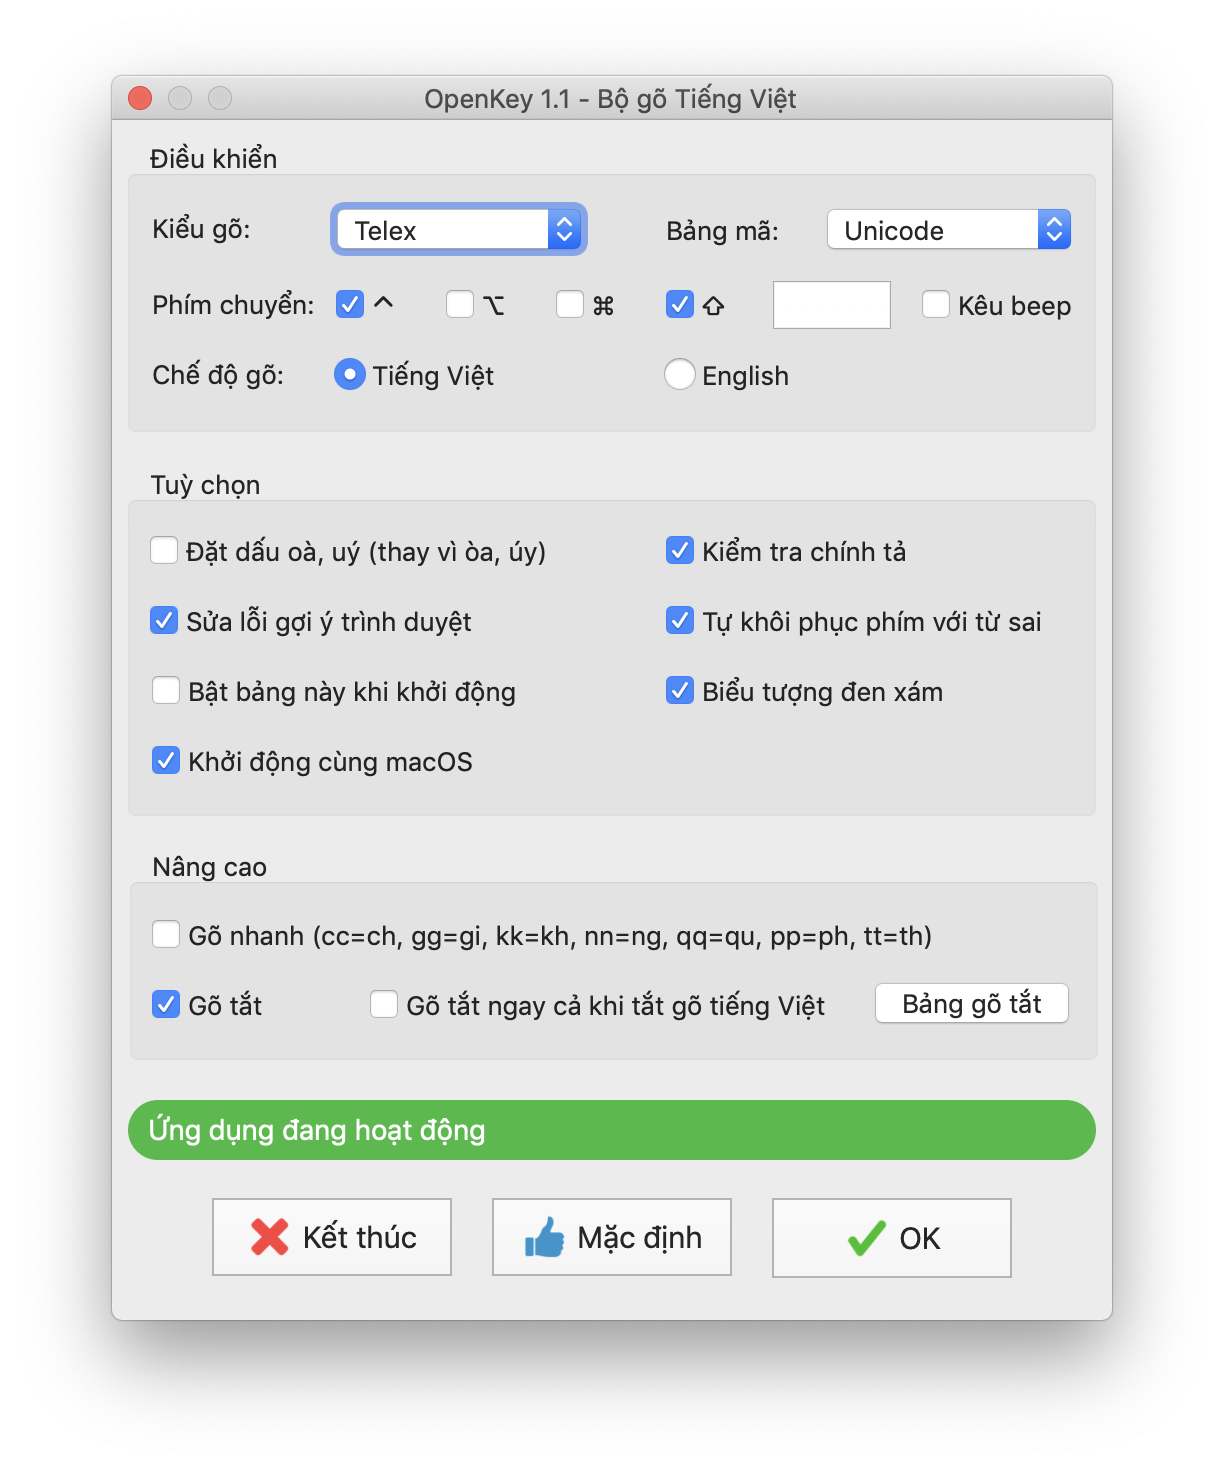
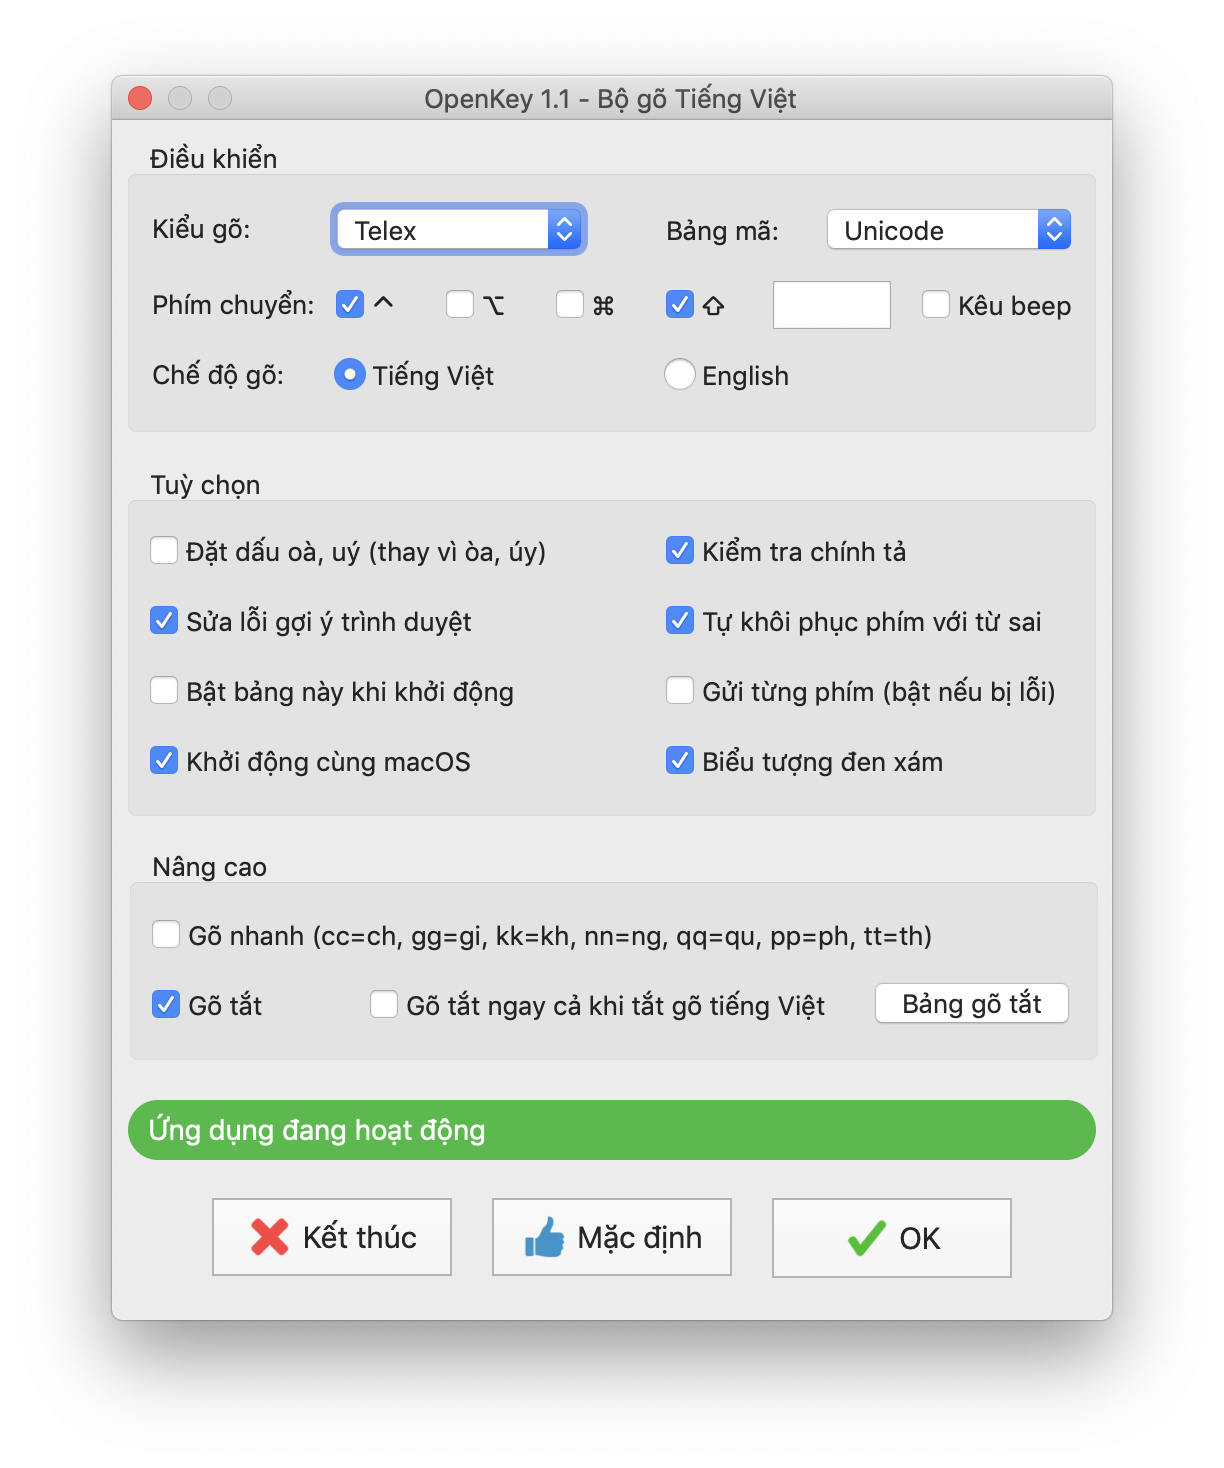
complete macro function, fix minor issues

Changed region(s): [[0.1242, 0.4598, 0.4346, 0.5518], [0.5278, 0.4598, 0.8693, 0.5211]]

diff --git a/Sources/OpenKey/macOS/ModernKey/OpenKey.mm b/Sources/OpenKey/macOS/ModernKey/OpenKey.mm
@@ -18,6 +18,9 @@
                             (_flag & kCGEventFlagMaskAlternate) || (_flag & kCGEventFlagMaskSecondaryFn) || \
                             (_flag & kCGEventFlagMaskNumericPad) || (_flag & kCGEventFlagMaskHelp)
 
+#define DYNA_DATA(macro, pos) (macro ? pData->macroData[pos] : pData->charData[pos])
+#define MAX_UNICODE_STRING  20
+
 extern ViewController* viewController;
 
 extern AppDelegate* appDelegate;
@@ -41,13 +44,15 @@ extern "C" {
     CGEventFlags _flag, _lastFlag = 0, _privateFlag;
     CGEventTapProxy _proxy;
     
-    Uint16 _newCharString[MAX_BUFF * 2];
+    Uint16 _newCharString[MAX_UNICODE_STRING];
     Uint16 _newCharSize;
+    bool _willContinuteSending = false;
     
     Uint16 _syncKey[MAX_BUFF];
     Uint8 _syncIndex = 0;
     Uint16 _uniChar[2];
-    int _i, _j;
+    int _i, _j, _k;
+    Uint32 _tempChar;
     
     string macroText, macroContent;
     
@@ -182,60 +187,76 @@ extern "C" {
         }
     }
     
-    void SendNewCharString() {
-        int j = 0;
-        _newCharSize = pData->newCharCount;
-        if (pData->newCharCount > 0 && pData->newCharCount <= MAX_BUFF) {
-            for (int i = pData->newCharCount - 1; i >= 0; i--) {
-                if (pData->charData[i] < 128) {
+    void SendNewCharString(const bool& dataFromMacro=false, const Uint16& offset=0) {
+        _j = 0;
+        _newCharSize = dataFromMacro ? pData->macroData.size() : pData->newCharCount;
+        _willContinuteSending = false;
+        
+        if (_newCharSize > 0) {
+            for (_k = dataFromMacro ? offset : pData->newCharCount - 1;
+                 dataFromMacro ? _k < pData->macroData.size() : _k >= 0;
+                 dataFromMacro ? _k++ : _k--) {
+                
+                _tempChar = DYNA_DATA(dataFromMacro, _k);
+                if (_tempChar & PURE_CHARACTER_MASK) {
+                    _newCharString[_j++] = _tempChar;
+                } else if (_tempChar < 128 || ((Uint16)_tempChar < 128 && (_tempChar & CAPS_MASK))) {
                     if (IS_DOUBLE_CODE(vCodeTable)) //VNI
                         InsertKeyLength(1);
-                    _newCharString[j++] = keyCodeToCharacter(pData->charData[i]);
+                    _newCharString[_j++] = keyCodeToCharacter(_tempChar);
                 } else {
                     if (vCodeTable == 0) {  //unicode 2 bytes code
-                        _newCharString[j++] = pData->charData[i];
+                        _newCharString[_j++] = _tempChar;
                     } else if (vCodeTable == 1 || vCodeTable == 2 || vCodeTable == 4) { //others such as VNI Windows, TCVN3: 1 byte code
-                        _newChar = pData->charData[i];
+                        _newChar = _tempChar;
                         _newCharHi = HIBYTE(_newChar);
                         _newChar = LOBYTE(_newChar);
-                        _newCharString[j++] = _newChar;
+                        _newCharString[_j++] = _newChar;
                         
                         if (_newCharHi > 32) {
                             if (vCodeTable == 2) //VNI
                                 InsertKeyLength(2);
-                            _newCharString[j++] = _newCharHi;
+                            _newCharString[_j++] = _newCharHi;
                             _newCharSize++;
                         } else {
                             if (vCodeTable == 2) //VNI
                                 InsertKeyLength(1);
                         }
-                        //_j++;
                     } else if (vCodeTable == 3) { //Unicode Compound
-                        _newChar = pData->charData[i];
+                        _newChar = _tempChar;
                         _newCharHi = (_newChar >> 13);
                         _newChar &= 0x1FFF;
                         
                         InsertKeyLength(_newCharHi > 0 ? 2 : 1);
-                        _newCharString[j++] = _newChar;
+                        _newCharString[_j++] = _newChar;
                         if (_newCharHi > 0) {
                             _newCharSize++;
-                            _newCharString[j++] = _unicodeCompoundMark[_newCharHi - 1];
+                            _newCharString[_j++] = _unicodeCompoundMark[_newCharHi - 1];
                         }
                         
                     }
                 }
-            }
+                
+                if (_j > 16) {
+                    _willContinuteSending = true;
+                    break;
+                }
+            }//end for
         }
         
-        if (pData->code == 3) { //if is restore
+        if (!_willContinuteSending && pData->code == 3) { //if is restore
             _newCharSize++;
-            _newCharString[j++] = keyCodeToCharacter(_keycode | ((_flag & kCGEventFlagMaskAlphaShift) || (_flag & kCGEventFlagMaskShift) ? CAPS_MASK : 0));
+            _newCharString[_j++] = keyCodeToCharacter(_keycode | ((_flag & kCGEventFlagMaskAlphaShift) || (_flag & kCGEventFlagMaskShift) ? CAPS_MASK : 0));
         }
         
         _newEventDown = CGEventCreateKeyboardEvent(myEventSource, 0, true);
-        CGEventKeyboardSetUnicodeString(_newEventDown, _newCharSize, _newCharString);
+        CGEventKeyboardSetUnicodeString(_newEventDown, _willContinuteSending ? 16 : _newCharSize - offset, _newCharString);
         CGEventTapPostEvent(_proxy, _newEventDown);
         CFRelease(_newEventDown);
+
+        if (_willContinuteSending) {
+            SendNewCharString(dataFromMacro, _k);
+        }
     }
             
     bool handleSwitchKey(bool checkKeyCode=true) {
@@ -277,17 +298,24 @@ extern "C" {
             }
         }
         //send real data
-        for (int i = 0; i < pData->macroData.size(); i++) {
-            if (pData->macroData[i] & PURE_CHARACTER_MASK) {
-                SendPureCharacter(pData->macroData[i]);
-            } else {
-                SendKeyCode(pData->macroData[i]);
+        if (!vSendKeyStepByStep) {
+            SendNewCharString(true);
+        } else {
+            for (int i = 0; i < pData->macroData.size(); i++) {
+                if (pData->macroData[i] & PURE_CHARACTER_MASK) {
+                    SendPureCharacter(pData->macroData[i]);
+                } else {
+                    SendKeyCode(pData->macroData[i]);
+                }
             }
         }
         SendPureCharacter(' ');
     }
 
-    /*MAIN Callback*/
+    /**
+     * MAIN HOOK entry, very important function.
+     * MAIN Callback.
+     */
     CGEventRef OpenKeyCallback(CGEventTapProxy proxy, CGEventType type, CGEventRef event, void *refcon) {
         //dont handle my event
         if (CGEventGetIntegerValueField(event, kCGEventSourceStateID) == CGEventSourceGetSourceStateID(myEventSource)) {

diff --git a/Sources/OpenKey/macOS/ModernKey/MyTextField.m b/Sources/OpenKey/macOS/ModernKey/MyTextField.m
@@ -26,19 +26,9 @@
         
         if (!eventMonitor) {
             eventMonitor = [NSEvent addLocalMonitorForEventsMatchingMask:NSKeyDownMask handler:^(NSEvent *event) {
-                if (event.keyCode == kVK_Space) {
-                    [self setStringValue:@"Space"];
-                    [self.Parent onSwitchKeyChange:kVK_Space character:kVK_Space];
-                } else if (event.keyCode == kVK_Delete || event.keyCode == kVK_ForwardDelete) {
-                    [self setStringValue:@""];
-                    [self.Parent onSwitchKeyChange:0xFE character:0xFE];
-                } else {
-                    [self setStringValue:@""];
-                    char t =event.characters.UTF8String[0];
-                    [self.Parent onSwitchKeyChange:event.keyCode character:t];
-                    return event;
-                }
-                return (NSEvent*)nil;
+                self.LastKeyCode = event.keyCode;
+                self.LastKeyChar = event.characters.UTF8String[0];
+                return event;
             } ];
             
         }
@@ -49,6 +39,20 @@
 -(void) textDidEndEditing:(NSNotification *)notification {
     [NSEvent removeMonitor:eventMonitor];
     eventMonitor = nil;
+}
+
+- (void)textDidChange:(NSNotification *)notification {
+    if (self.LastKeyCode == kVK_Space) {
+        [self setStringValue:@"Space"];
+        [self.Parent onSwitchKeyChange:kVK_Space character:kVK_Space];
+    } else if (self.LastKeyCode == kVK_Delete || self.LastKeyCode == kVK_ForwardDelete) {
+        [self setStringValue:@""];
+        [self.Parent onSwitchKeyChange:0xFE character:0xFE];
+    } else {
+        [self setStringValue:@""];
+        [self.Parent onSwitchKeyChange:self.LastKeyCode character:self.LastKeyChar];
+        [self setStringValue:[NSString stringWithFormat:@"%c", self.LastKeyChar]];
+    }
 }
 
 -(void)setTextByChar:(unsigned short)chr {

diff --git a/Sources/OpenKey/macOS/ModernKey/MyTextField.h b/Sources/OpenKey/macOS/ModernKey/MyTextField.h
@@ -9,8 +9,10 @@
 #import <Cocoa/Cocoa.h>
 #import "ViewController.h"
 
-@interface MyTextField : NSTextField
+@interface MyTextField : NSTextField<NSTextDelegate>
 @property (weak, nonatomic) ViewController* Parent;
+@property unsigned short LastKeyCode;
+@property unsigned short LastKeyChar;
 
 -(void)setTextByChar:(unsigned short)chr;
 @end

diff --git a/Sources/OpenKey/macOS/ModernKey/ViewController.m b/Sources/OpenKey/macOS/ModernKey/ViewController.m
@@ -36,6 +36,7 @@ extern int vSendKeyStepByStep;
 
 - (void)viewDidLoad {
     [super viewDidLoad];
+    CustomSwitchKey.delegate = CustomSwitchKey;
     viewController = self;
     CustomSwitchKey.Parent = self;
     

diff --git a/README.md b/README.md
@@ -6,7 +6,7 @@ Bộ gõ tiếng Việt mới cho macOS, sử dụng kỹ thuật backkey. Loạ
 ### Lưu ý, khi sử dụng OpenKey, bạn nên tắt hẳn bộ gõ khác vì 2 chương trình bộ gõ sẽ xung đột nhau, dẫn đến thao tác không chính xác.
 
 ![Giao diện](https://github.com/tuyenvm/OpenKey/raw/master/Images/screenshot1.1.png "Main UI")
-![Menu](https://github.com/tuyenvm/OpenKey/raw/master/Images/screenshot2.png "Menu bar")
+![Menu](https://github.com/tuyenvm/OpenKey/raw/master/Images/screenshot2.1.png "Menu bar")
 ![Gõ tắt](https://github.com/tuyenvm/OpenKey/raw/master/Images/screenshot4.png "Macro")
 
 ##### Input Type - Hỗ trợ kiểu gõ
@@ -34,6 +34,7 @@ Bộ gõ tiếng Việt mới cho macOS, sử dụng kỹ thuật backkey. Loạ
 - Switch input mode by shortcut key. - Đổi chế độ gõ bằng phím tắt tùy chọn.
 - Autocorrect fixed (On/Off) - Sửa lỗi autocorrect trên trình duyệt như Chrome, Safari, Firefox, Microsoft Excel.
 - Underline issue fixed on macOS - Sửa lỗi gạch chân trên macOS.
+- **Chế độ “Gửi từng phím”:** OpenKey bản mới >1.1 mặc định dùng kỹ thuật mới gửi dữ liệu 1 lần thay vì gửi nhiều lần cho chuỗi ký tự, nên nếu có ứng dụng nào không tương thích, hãy bật tính năng này lên, mặc định thì nên tắt vì kỹ thuật mới sẽ chạy nhanh hơn.
 - ...
 
 ### Download Binary - Tải xuống: 